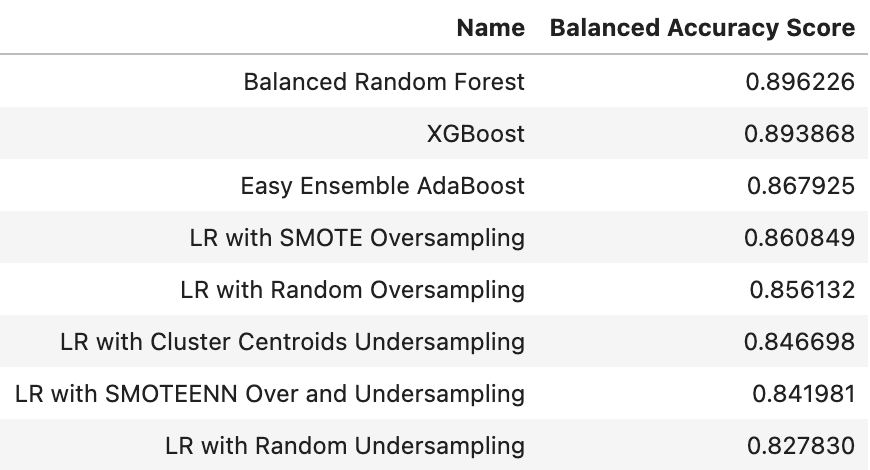
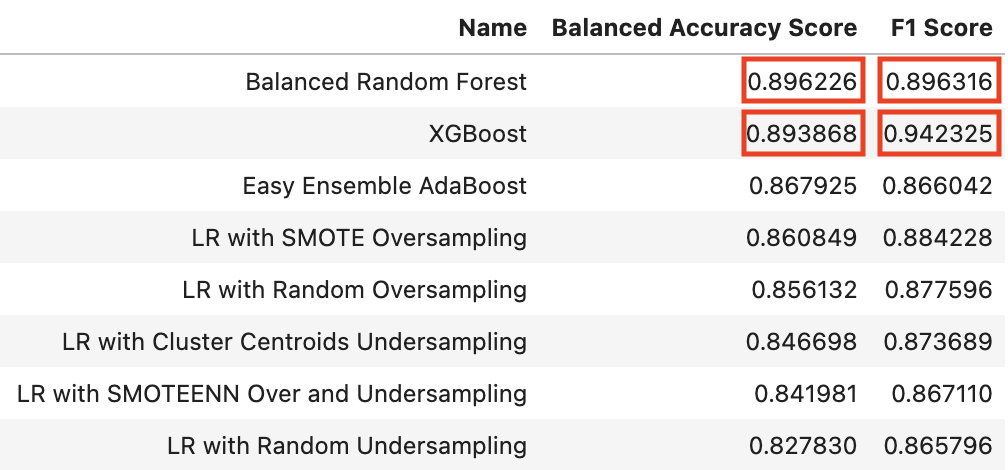
Updated README and screenshots for XGBoost and including F1 score

diff --git a/README.md b/README.md
@@ -8,12 +8,44 @@ This project will develop two machine learning models.
 2. A model to predict which of two methods for separating and analyzing sample components, also known as liquid chromatography–mass spectrometry (LCMS) methods, is optimal to use for a chemical compound based on properties of that compound's structure.
 
 ### Reason for Selection
-The team at an automated chemistry platform that works to automate the process of making small chemical compounds to be used in research and development for medicinal purposes is seeking machine learning models that can be used to select the best SPE and LCMS methods to test for purification and analysis of each chemical compound in a large library of compounds. Without machine learning models that can effectively predict the optimal SPE and LCMS methods to use, the team must make a best guess of which methods to test based on a subset of properties of each compound’s structure. This process can be time consuming and expensive, especially if the wrong SPE and/or LCMS method(s) end up being selected and testing must be repeated using other methods. Development of these two machine learning models has the potential to improve the time and cost efficiency of the automated chemistry platform’s process. 
+The team at an automated chemistry platform that works to automate the process of making small chemical compounds to be used in research and development for medicinal purposes is seeking machine learning models that can be used to select the best SPE and LCMS methods to test for purification and analysis of each chemical compound in a large library of compounds. Without machine learning models that can effectively predict the optimal SPE and LCMS methods to use, the team must make a best guess of which methods to test based on a subset of properties of each compound’s structure. This process can be time consuming and expensive, especially if the wrong SPE and/or LCMS method(s) end up being selected and testing must be repeated using other methods. Development of these two machine learning models has the potential to improve the time and cost efficiency of the automated chemistry platform’s process.
 
 ### Data Source
-This project utilizes datasets provided by the data team at the automated chemistry platform. The first dataset lists compounds tested by the platform over the past two years and includes compound properties such as molecular weight, topological polar surface area (TPSA), quantitative estimate of drug-likeness (QED), among many others that may be relevant to predicting the appropriate SPE and LCMS methods to use for compound purification and analysis. The second dataset includes the status of testing for each compound and the SPE and LCMS methods used for each compound that has completed the purification stage. Each compound is identified by a unique structure ID, and proprietary information about the actual structure of the compound has been excluded from the datasets.
+This project utilizes datasets provided by the data team at the automated chemistry platform. The first dataset lists compounds tested by the platform over the past two years and includes compound properties such as molecular weight, topological polar surface area (TPSA), quantitative estimate of drug-likeness (QED), among many others that may be relevant to predicting the appropriate SPE and LCMS methods to use for compound purification and analysis. These *molecular descriptors* were generated from input SMILES strings using the python library [RDKit](https://www.rdkit.org/), which provides an extensive [list of available descriptors](https://www.rdkit.org/docs/GettingStartedInPython.html#list-of-available-descriptors). The file for these calculations can be found at [chemCalculate.py](database/chemCalculate.py). 
+
+The second dataset includes the status of testing for each compound and the SPE and LCMS methods used for each compound that has completed the purification stage. Each compound is identified by a unique structure ID, and proprietary information about the actual structure of the compound has been excluded from the datasets.
+
+### Data ETL Process
+
+![The Data ETL Pipeline used for this project](Resources/PurifAI_ETL_pipeline.png)
+
+
+1. **Raw data was extracted from chemistry platform database as CSV files. These are accessible from AWS S3 buckets:**
+   
+   - https://purifai.s3.us-west-1.amazonaws.com/data/outcomes.csv
+   - https://purifai.s3.us-west-1.amazonaws.com/data/structures.csv
+   
+2. **Data was transformed and cleaned using pandas in this file [clean_dataset.ipynb](database/clean_dataset.ipynb) and new CSV files were generated. These were uploaded to and are accessible from AWS S3 buckets:**
+   
+   - https://purifai.s3.us-west-1.amazonaws.com/clean-data/cleaned-outcomes.csv
+   - https://purifai.s3.us-west-1.amazonaws.com/clean-data/cleaned-structures.csv
+   
+     The cleaning of the structures data was straight forward. Due to the structure data’s sensitive and private nature, all that was required was to drop the structure representation fields (SMILES) and encode the `STRUCTURES_ID`s via substring replacements.
+   
+     The outcomes table cleaning was more cumbersome as the dataset was already in need of thorough cleaning as there was a lot of unmaintained manual data entry from eariler entries of the source data. Namely, the `spe_method` and `lcms_method` fields needed to be accurately null for the model to work properly. This required a manual review and transfer from several other offline data sources. Other transformations were made to the actual data including normalizing all percent or decimal values to be consistent with each field.
+   
+3. **Data was loaded into the AWS database (*purifai.ceoinb9nwfxg.us-west-1.rds.amazonaws.com*) using PySpark using this file [purifAI_database.ipynb](database/purifAI_database.ipynb).**
+
+[Here is the database diagram](https://github.com/jenamis/purifAI/blob/main/database/DBD%20Diagram.png).
+
+![DBD_Diagram](README.Resources/DBD_Diagram.png)
+
+
+
+4. **Data for SPE analysis is extracted as a merged table (`spe_analysis_df`) using SQLAlchemy and pandas. This dataframe for analysis is obtained using the code from [spe_analysis_data.ipynb](database/spe_analysis_data.ipynb).**
 
 ### Questions to Answer
+
 The questions that will be answered through this project are:
 - Which properties of a compound’s structure are relevant to include as features in a machine learning model to predict the optimal SPE method for compound purification?
 - Can a machine learning model be developed that has sufficiently high accuracy, precision, and sensitivity for predicting optimal SPE method for compound purification?
@@ -22,143 +54,202 @@ The questions that will be answered through this project are:
 - Can a machine learning model be developed that has sufficiently high accuracy, precision, and sensitivity for predicting optimal LCMS method for compound analysis?
 - Which machine learning model will perform best for predicting optimal LCMS method for compound analysis?
 
-## Database
-A relational database (RDS) was created in Amazon Web Services (AWS), and connected to pgAdmin14. This Postgres database is hosted on the cloud, which can be accessed by anyone with credentials using pgAdmin14. [Data was cleaned by Pandas](https://github.com/jenamis/purifAI/blob/main/database/clean_dataset.ipynb), and stored in AWS S3 bucket. We call the data from RDS by using SQLAlchemy. [Here is the database diagram](https://github.com/jenamis/purifAI/blob/main/database/DBD%20Diagram.png).
-
 ## Machine Learning Model
 Python scripts with Pandas in Jupyter Notebook were used to test the performance of supervised machine learning (ML) models using the following algorithms and resampling methods:
-- Imbalanced-learn's BalancedRandomForestClassifier (Balanced Random Forest)
-- Imbalanced-learn's EasyEnsambleClassifier (Easy Ensemble AdaBoost)
-- XGBoost's XGBClassifier (XGBoost)
-- Scikit-learn's LogisticRegression with the following imbalanced-learn sampling modules:
-   - RandomOverSampler (LR with Random Oversampling) 
-   - SMOTE (LR with SMOTE Oversampling)
-   - RandomUnderSampler (LR with Random Undersampling)
-   - ClusterCentroids (LR with Cluster Centroids Undersampling)
-   - SMOTEENN (LR with SMOTEENN Over and Undersampling)
+- Imbalanced-learn's `BalancedRandomForestClassifier` (Balanced Random Forest)
+- Imbalanced-learn's `EasyEnsembleClassifier` (Easy Ensemble AdaBoost)
+- XGBoost's `XGBClassifier` (XGBoost)
+- Scikit-learn's `LogisticRegression` with the following imbalanced-learn sampling modules:
+   - `RandomOverSampler` (LR with Random Oversampling) 
+   - `SMOTE` (LR with SMOTE Oversampling)
+   - `RandomUnderSampler` (LR with Random Undersampling)
+   - `ClusterCentroids` (LR with Cluster Centroids Undersampling)
+   - `SMOTEENN` (LR with SMOTEENN Over and Undersampling)
 
-One set of models was developed to predict optimal SPE method for compound purification, and a second set was developed to predict optimal LCMS method for compound analysis. All models used compound properties from the "structures" dataset as features (see details below under Feature Engineering & Selection). The listed ML algorithms and sampling methods were selected for testing due to a class imbalance for both binary target variables (SPE method and LCMS method). Model performance was evaluated using the scikit-learn's balanced_accuracy_score and confusion_matrix modules and imbalanced-learn's classification_report_imbalanced module. Model comparisons were based on balanced accuracy score.
+One set of models was developed to predict optimal SPE method for compound purification, and a second set was developed to predict optimal LCMS method for compound analysis. All models used compound properties from the `structures` dataset as features (see details below under Feature Engineering & Selection). The listed ML algorithms and sampling methods were selected for testing due to a class imbalance for both binary target variables (SPE method and LCMS method). Model performance was evaluated using scikit-learn's `balanced_accuracy_score` and `confusion_matrix` modules and imbalanced-learn's `classification_report_imbalanced` module. Model comparisons were based on balanced accuracy score and weighted F1 score.
 
 ### Data Preprocessing
-The ML model development scripts connected to the Amazon RDS using SQLAlchemy. An inner join between the "outcomes" and "structures" tables on the "structure_id" column was used to merge the two cleaned datasets. Since the goal of both ML models is to predict optimal methods related to compound purification, only rows where the compound successfully completed the purification stage of testing (indicated by the value "true" in the "spe_successful" column) were retained in the data for model development. For development of the LCMS ML model, the data was further limited to include only rows with one of the main LCMS methods in the "preferred_lcms_method" column (rows with the LunaOmega LpH method were excluded because it is very rarely used).
+The ML model development scripts connected to the Amazon RDS using SQLAlchemy. An inner join between the `outcomes` and `structures` tables on the `structure_id` column was used to merge the two cleaned datasets. Since the goal of both ML models is to predict optimal methods related to compound purification, only rows where the compound successfully completed the purification stage of testing (indicated by the value "true" in the `spe_successful` column) were retained in the data for model development. For development of the LCMS ML model, the data was further limited to include only rows with one of the main LCMS methods in the `preferred_lcms_method` column (rows with the LunaOmega LpH method were excluded because it is very rarely used).
 
 Data preprocessing continued as outlined below.
-- After the merged dataset was loaded into the model development scripts as a pandas DataFrame, all columns from the original "outcomes" dataset **except for** the structure ID ("structure_id") and columns containing the SPE or LCMS method were dropped from the DataFrame. 
+- After the merged dataset was loaded into the model development scripts as a pandas DataFrame, all columns from the original `outcomes` dataset **except for** the structure ID (`structure_id`) and columns containing the SPE or LCMS method were dropped from the DataFrame. 
    - The dropped columns contained additional outcome data from the compound testing process that may be of interest for future analysis but were extraneous to the current objective of predicting optimal SPE and LCMS methods. 
 - Duplicate rows were dropped from the DataFrame. 
-   
    **For SPE ML model development:**
    - If a structure ID was tested multiple times with same SPE method, only one row was retained for that structure ID and SPE method combination.
    - If a structure ID was tested successfully with both SPE methods, rows for that structure ID with each SPE method were retained. 
-   
    **For LCMS ML model development:**
    - If a structure ID was tested multiple times with same LCMS method, only one row was retained for that structure ID and LCMS method combination.
    - If a structure ID was tested successfully with both LCMS methods, rows for that structure ID with each LCMS method were retained. 
-- Scikit-learn's LabelEncoder module was used to transtorm the SPE or LCMS method (target) from string to numerical data. All features were already numerical. **Note:** Since transforming the method to numerical was only necessary for testing the XGBoost model, this preprocessing step was skipped when training the final saved models.
+- Scikit-learn's `LabelEncoder` module was used to transform the SPE or LCMS method (target) from string to numerical data in some of the model testing scripts. All features were already numerical. **Note:** This preprocessing step was skipped when training the final saved models.
 
 ### Feature Engineering & Selection
-The original "structures" dataset included 45 compound properties believed to be potentially relevant for predicting the optimal SPE and LCMS methods to use for compound purification and analysis. The base version of each ML model (described under Model Testing & Training) was tested using all 45 properties as features in the model. In addition, all models except Easy Ensamble AdaBoost were tested with a subset of selected features. 
-- For the Balanced Random Forest and XGBoost models, feature importances were retrieved and Scikit-learn's SelectFromModel module was used to select the features to include in the subset.
-- For the Logistic Regression models, features were sorted in descending order by the absolute value of their coefficient as a proxy for feature importance. For the SPE models, the top 20 features were selected to include in the subset (aligning with the number of selected features for the SPE Balanced Random Forest model). For the LCMS models, the top 14 features were selected to include in the subset (aligning with the number of selected features for the LCMS Balanced Random Forest model). With additional time for model testing and training, a more systematic approach to feature selection for the Logistic Regression models could be undertaken.
+The original `structures` dataset included 45 compound properties believed to be potentially relevant for predicting the optimal SPE and LCMS methods to use for compound purification and analysis. The base version of each ML model (described under Model Testing & Training) was tested using all 45 properties as features in the model. In addition, all models except Easy Ensemble AdaBoost were tested with a subset of selected features. 
+- For the Balanced Random Forest and XGBoost models, feature importances were retrieved and Scikit-learn's `SelectFromModel` module was used to select the features to include in the subset.
+- For the Logistic Regression models, features were sorted in descending order by the absolute value of their coefficient as a proxy for feature importance. For the SPE models, the top 20 features were selected to include in the subset (aligning with the number of selected features for the SPE Balanced Random Forest model, since the distributions of feature importance were similar). For the LCMS models, the top 14 features were selected to include in the subset (aligning with the number of selected features for the LCMS Balanced Random Forest model). With additional time for model testing and training, a more systematic approach to feature selection for the Logistic Regression models could be undertaken.
 
-The tables below show the balanced accuracy score for the base version of each model with all features included compared with only selected features. Model versions with selected features performed worse or only slightly better than the versions with all features, indicating that the full set of 45 features did not contain extraneous features creating significant "noise" in the model. Additionally, none of the models using only a subset of selected features had a higher balanced accuracy score than the best performing model using all features. Therefore, all features were retained when model testing advanced to the hyperparameter tuning stage.
+The tables below show the balanced accuracy score (abbreviated BA) and F1 score for the base version of each model with all features included compared with only selected features. Model versions with selected features performed worse or only slightly better than the versions with all features, indicating that the full set of 45 features did not contain extraneous features creating significant "noise" in the model. Additionally, none of the models using only a subset of selected features had a higher balanced accuracy score or F1 score than the best performing models using all features. Therefore, all features were retained when model testing advanced to the hyperparameter tuning stage.
 
-_**Comparison of Base Model Performance for Predicting SPE Method with All Features and Selected Features**_
+***Comparison of Base Model Performance for Predicting SPE Method with All Features and Selected Features***
 
 <img src="Resources/spe_features.png" height="250">
 
 
-_**Comparison of Base Model Performance for Predicting LCMS Method with All Features and Selected Features**_
+***Comparison of Base Model Performance for Predicting LCMS Method with All Features and Selected Features***
 
 <img src="Resources/lcms_features.png" height="250">
 
 
-Since feature values ranged from less than 1 to greater than 700, scikit-learn's StandardScaler module was used to scale all features after completing the train-test split.
+Since feature values ranged from less than 1 to greater than 700, scikit-learn's `StandardScaler` module was used to scale all features after completing the train-test split.
 
 ### Train-Test Split
-The data was split using scikit-learn's train_test_split module with default parameters. The original training and testing sets were used for the Balanced Random Forest, Easy Ensamble AdaBoost, and XGBoost models. Due to the class imbalance for the target variables, each of the Logistic Regression models utilized a resampling method for the training data, as indicated in the name given to the model. 
+The data was split using scikit-learn's `train_test_split` module with default parameters. The original training and testing sets were used for the Balanced Random Forest, Easy Ensemble AdaBoost, and XGBoost models. Due to the class imbalance for the target variables, each of the Logistic Regression models utilized a resampling method for the training data, as indicated in the name given to the model. 
 
 ### Model Testing & Training
 Two stages of model testing and training were performed for both SPE model development and LCMS model development. 
 
 #### Initial Testing
-Base versions of the ML algorithms and resampling methods listed above were tested and balanced accuracy scores were compared. 
-- For Balanced Random Forest, Easy Ensamble AdaBoost, and XGBoost base versions, n_estimators was set equal to 100 and all other hyperparameters were default. 
+Base versions of the ML algorithms and resampling methods listed above were tested and balanced accuracy scores and F1 scores were compared. 
+- For Balanced Random Forest, Easy Ensemble AdaBoost, and XGBoost base versions, n_estimators was set equal to 100 and all other hyperparameters were default. 
 - For LR base versions, all hyperparameters were default. 
 
-The tables below show a comparison of base model performance sorted from highest to lowest balanced accuracy score. Balanced Random Forest was the best performing model both for predicting SPE method and for predicting LCMS method.
+The tables below show a comparison of base model performance sorted from highest to lowest balanced accuracy score. For the model predicting SPE method, Balanced Random Forest and XGBoost had the highest balanced accuracy and F1 scores. For the model predicting LCMS method, Balanced Random Forest had the highest balanced accuracy and F1 scores, while LR with Cluster Centroids Undersampling and XGBoost had the second highest balanced accuracy score and F1 score, respectively.
 
-_**Base Model Performance for Predicting SPE Method**_
+***Base Model Performance for Predicting SPE Method***
 
 <img src="Resources/spe_base.png" height="250">
 
 
-_**Base Model Performance for Predicting LCMS Method**_
+***Base Model Performance for Predicting LCMS Method***
 
 <img src="Resources/lcms_base.png" height="250">
 
 
 #### Hyperparameter Tuning 
 Hyperparameter tuning was performed for all of the ML algorithms listed above.
-- For Easy Ensamble AdaBoost, XGBoost, and LR models, scikit-learn's GridSearchCV was used to search for the best hyperparameter values for a small subset of hyperparameters. **SHOULD WE LIST WHICH HYPERPARAMETERS WERE TUNED FOR EACH?** The balanced accuracy score for the model with the best identified hyperparameter values was compared with the balanced accuracy score for the base model.
-- Since Balanced Random Forest was the best performing base model, a two-step process for hyperparameter tuning using both scikit-learn's RandomizedSearchCV and GridSearchCV was performed. A random search for best parameters was performed first, followed by a grid search with hyperparameter values set based on the random search results. **SHOULD WE LIST WHICH HYPERPARAMETERS WERE TUNED?** The balanced accuracy score for the model with the best identified hyperparameter values was compared with the balanced accuracy score for the base model.
+- For Balanced Random Forest, a two-step process for hyperparameter tuning using both scikit-learn's `RandomizedSearchCV` and `GridSearchCV` was performed. A random search for best parameters was performed first, followed by a grid search with hyperparameter values set based on the random search results. The following subset hyperparameters were tuned:
+   - `n_estimators`
+   - `min_samples_split`
+   - `min_samples_leaf`
+   - `max_features`
+   - `max_depth`
+   - `bootstrap`
+   - `replacement`
+- For XGBoost, `GridSearchCV` was used to search for the best values for the following subset of hyperparameters:
+   - `n_estimators`
+   - `colsample_bytree`
+   - `gamma`
+   - `learning_rate`
+   - `max_depth`
+   - `min_child_weight`
+- Since the Easy Ensemble AdaBoost and LR base models did not perform as well overall, less attention was given to their hyperparameter tuning and `GridSearchCV` was used to search for the best values for only a small subset of hyperparameters. 
+   - For Easy Ensemble AdaBoost: `n_estimators`
+   - For LR: `C`, `penalty`
 
-The tables below show the comparison of base and grid search model performance sorted from highest to lowest balanced accuracy score after hyperparameter tuning. For predicting SPE method, Balanced Random Forest remained the best performing model. For predicting LCMS method, XGBoost had the highest balanced accuracy score after hyperparameter tuning. 
+For all models, the balanced accuracy and F1 scores for the version with the best identified hyperparameter values were compared with the scores for the base version. The tables below show these comparisons, and are sorted from highest to lowest balanced accuracy score after hyperparameter tuning. For predicting SPE method, Balanced Random Forest had the highest balanced accuracy score after hyperparameter tuning, but the XGBoost base model still had the highest F1 score. For predicting LCMS method, XGBoost had the highest balanced accuracy score and F1 score after hyperparameter tuning. 
 
-_**Comparison of Base and Grid Search Model Performance for Predicting SPE Method**_
+***Comparison of Base and Grid Search Model Performance for Predicting SPE Method***
 
 <img src="Resources/spe_grid.png" height="250">
 
 
-_**Comparison of Base and Grid Search Model Performance for Predicting LCMS Method**_
+***Comparison of Base and Grid Search Model Performance for Predicting LCMS Method***
 
 <img src="Resources/lcms_grid.png" height="250">
 
-
 ### Final Model Selection & Performance
-Balanced Random Forest was selected as the algorithm for the final ML models for predicting optimal SPE method and optimal LCMS method. Details of each final model and its performance are discussed separately below.
+
+Balanced Random Forest and XGBoost algorithms both produced high-performing ML models for predicting optimal SPE method and optimal LCMS method. Balanced Random Forest was originally selected for both final models. However, after further comparison of F1 scores and precision and recall values, XGBoost was selected instead for both final models. Details of each final model and its performance are discussed separately below.
 
 #### SPE ML Model
-Although several models had similar best balanced accuracy scores for predicting SPE method, Balance Random Forest was selected for this model due to its slightly higher score. The hyperparameters for the final model are shown below.
+Although Balanced Random Forest had a slightly higher best balanced accuracy score than XGBoost for predicting SPE method , XGBoost was selected for this model due to its higher F1 score. In particular, the precision for predicting HLB (the minority class) was much higher with XGBoost than with Balanced Random Forest. The difference in recall for predicting HLB, where XGBoost performed the worst, was smaller and XGBoost still performed fairly well. Performance metrics for both models are shown below.
+
+***XGBoost                              Balanced Random Forest***
+
+<img src="Resources/spe_performance_xgb.png" width="425"/> <img src="Resources/spe_performance_brf.png" width="425"/>
+
+
+Performance metrics for the selected XGBoost model are explained below. 
+- Balanced Accuracy Score: The model's SPE method predictions for the testing data were correct **89%** of the time. 
+- Precision for Predicting MCX: When the method was predicted as MCX, it actually was MCX **95%** of the time.
+- Precision for Predicting HLB: When the method was predicted as HLB, it actually was HLB **90%** of the time. 
+- Recall for Predicting MCX: When the method was actually MCX, the model correctly predicted it as such **98%** of the time.
+- Recall for Predicting  HLB: When the method was actually HLB, the model correctly predicted it as such **81%** of the time. 
+
+The default hyperparameters used for the base version of the model were used for the final model since performance did not improve through hyperparameter tuning. They are shown below.
 
 <img src="Resources/spe_final_params.png" width="500">
 
 
-Performance metrics for the model are shown and explained below. 
-- Balanced Accuracy Score: The model's SPE method predictions for the testing data were correct **91%** of the time. 
-- Precision for Predicting MCX: When the method was predicted as MCX, it actually was MCX **98%** of the time.
-- Precision for Predicting HLB: When the method was predicted as HLB, it actually was HLB **69%** of the time. This lower precision for predicting HLB was expected due to the substantial class imbalance in the data.
-- Recall for Predicting MCX: When the method was actually MCX, the model correctly predicted it as such **90%** of the time.
-- Recall for Predicting  HLB: When the method was actually HLB, the model correctly predicted it as such **92%** of the time. 
-
-![img8](Resources/spe_performance.png)
-
-
 #### LCMS ML Model
-Although XGBoost had a slightly higher best balanced accuracy score than Balanced Random Forest for predicting LCMS method, the difference was negligable and Balanced Random Forest was selected for this model to be consistent with the SPE model. The default hyperparameters used for the base version of the model were used for the final model since performance did not improve through hyperparameter tuning. They are shown below. 
+
+XGBoost and Balanced Random Forest had nearly equal best balanced accuracy scores for predicting LCMS method, so XGBoost was once again selected for this model due to its higher F1 score. As with the SPE model, XGBoost had a higher precision than Balanced Random Forest for predicting the minority LCMS method class (Gemini). Performance metrics for both models are shown below. 
+
+***XGBoost                              Balanced Random Forest***
+
+<img src="Resources/lcms_performance_xgb.png" width="425"/> <img src="Resources/lcms_performance_brf.png" width="425"/>
+
+
+Performance metrics for the model are shown and explained below. 
+- Balanced Accuracy Score: The model's LCMS method predictions for the testing data were correct **89%** of the time. 
+- Precision for Predicting Xbridge: When the method was predicted as Xbridge, it actually was Xbridge **93%** of the time.
+- Precision for Predicting Gemini: When the method was predicted as Gemini, it actually was Gemini **88%** of the time. 
+- Recall for Predicting Xbridge: When the method was actually Xbridge, the model correctly predicted it as such **95%** of the time.
+- Recall for Predicting  Gemini: When the method was actually Gemini, the model correctly predicted it as such **82%** of the time. 
+
+The hyperparameters for the final model are shown below.
 
 <img src="Resources/lcms_final_params.png" width="650">
 
 
-Performance metrics for the model are shown and explained below. 
-- Balanced Accuracy Score: The model's LCMS method predictions for the testing data were correct **88%** of the time. 
-- Precision for Predicting Xbridge: When the method was predicted as Xbridge, it actually was Xbridge **94%** of the time.
-- Precision for Predicting Gemini: When the method was predicted as Gemini, it actually was HLB **77%** of the time. This lower precision for predicting Gemini was expected due to the class imbalance in the data.
-- Recall for Predicting Xbridge: When the method was actually Xbridge, the model correctly predicted it as such **89%** of the time.
-- Recall for Predicting  Gemini: When the method was actually Gemini, the model correctly predicted it as such **87%** of the time. 
-
-![img10](Resources/lcms_performance.png)
-
-
-In general, Balanced Random Forest has several benefits that make it a strong choice for these models.
-- It is ideal for use with imbalanced classes like SPE method and LCMS method.
-- It is not prone to overfitting since it uses a combination of several "weak learner" trees.
+In general, XGBoost has several benefits that make it a strong choice for these models.
+- It can perform well with imbalanced classes like SPE method and LCMS method.
 - It can run efficiently with large datasets. 
+- **WHAT ELSE TO ADD?**
+
+## Dashboard
+
+Using a flask template, the team will create a web application that will allow users the ability to input a chemical compound in which the machine learning will predict the best SPE and LCMS method to test for purification and analysis. It will be hosted using HTML/CSS. Tableau will also be integrated to create a fully functioning and interactive dashboard that gives the users the ability to compare certain features to SPE and LCMS methods. Users will also be able to see which features have the highest importance level. 
+
+[Tableau Webpage](https://public.tableau.com/views/TestingSPEandLCMSMethods/Dashboard72?:language=en-US&publish=yes&:display_count=n&:origin=viz_share_link)
 
 ## Team Communication Protocol
+
 The project team will use the following protocol for communicating about the project. 
 - A dedicated Slack channel that includes only team members will be used as the primary method for communication about the project.
 - Slack messages directed at a specific team member or members will include a mention for the team member(s).
 - All team members will have Slack notifications for the channel turned on so they will be alerted to new project messages. 
 - All team members will be expected to respond to Slack messages within 24 hours. If no response is received within 24 hours, communication will be re-sent via text message. 
 - Brief team meetings will be conducted via Google Meet on Mondays, Wednesdays, and Fridays at 1pm and Tuesdays, Thursdays, and Sundays at 9pm. 
+
+## Conclusion
+
+All-in-all, the resulting scores of these trained models seem to encourage an optimistic implementation on real structure predictions. This will hopefully begin to guide automated decisions on purification and analytical method for compounds passing through the robotics platform.
+
+### Positive Outcomes
+
+A highly predictive model implemented in this way would improve the automated chemistry platform by:
+
+- Increasing success quantity metrics; minimize failed sample counts
+  - better fitted methods on a per-sample-basis will inherently improve purity and sample recovery results
+- Limit the amount of time and resources taken by samples needing to be retrialed through the platform
+- Eventually be able to highlight what types of structures are inevitably unsuited for the automated platform, thus indicating to what structures should new methods be developed for
+- Open many other doors for similar models ro be applied to other obstacles that challenge the automation of the platform.
+
+### Potential Limitations
+
+Some readily acknowledged limitations of these (or other) models could impact the breadth of their impact:
+
+- The model will only be able to predict accurately for structures that are similar enough to the training set. In the confinements of targeting small molecule drug targets, these are generally all within a certain scope of alikeness
+  - As molecules evolve with the growing knowledge of chemistry and drug discovery as time passes, this (or any) model will need to be reoptimized with new and additional data to retain accuracy.
+- Only when the predictive model is correcty and consistently indicating successful methods over many different types of samples .
+
+### Expansions & Future Endeavours 
+
+To address the issue of structural likeness between input structures of the model and those that it was trained upon is a relevant, but complex question.
+
+My immediate next development to this tool would be to develop a way of measuring chemico-statistical likeness of a subset against a larger set. This would require analyzing the array of descriptors of each molecule and in a set and extract some sort of statistical relevence against another array of arrays. This would also assume that the selected desctriptors substantially cover those parameters by which structures “differ”.
+
+Additionally, I would expand this predictive work to encompass more fields of data relevent to measuring a given compound’s success throught the platform. I would like do this a implement some deep learning strategies to play with models using a greater coverage of  the relevant data. In the scope of this work, I piqued an interest (without the time to divulge) in deep learning towards the resolution of chemical challenges. I hope to implement prepackaged tools like [deepchem](https://deepchem.io/) and [chainer-chemistry](https://github.com/chainer/chainer-chemistry) to aid those investigations.
+
+Should this project’s work prove successful for predicting purification outcomes by method, I will likely try to expand these goals to the realm of automated synthesis and retrosynthetic AI (at least explorationally).
